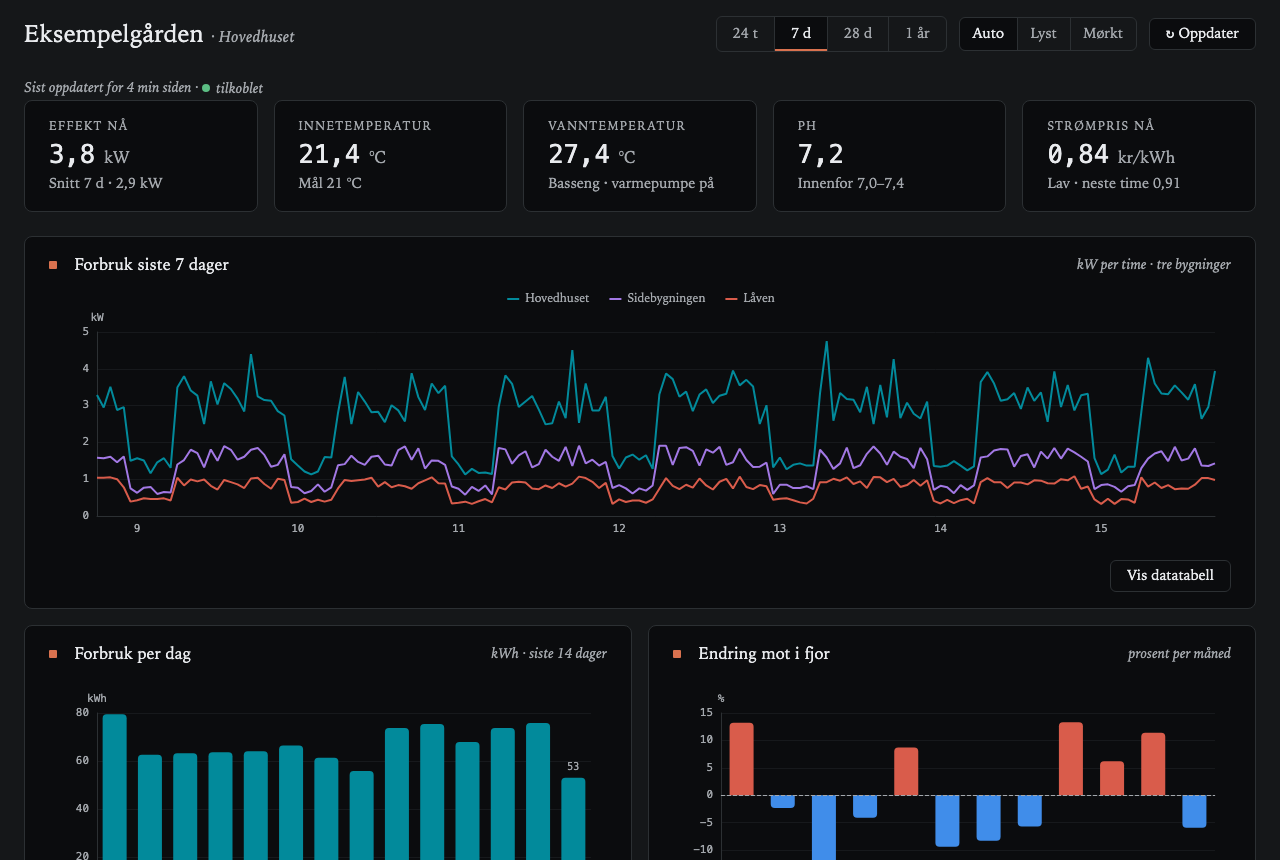
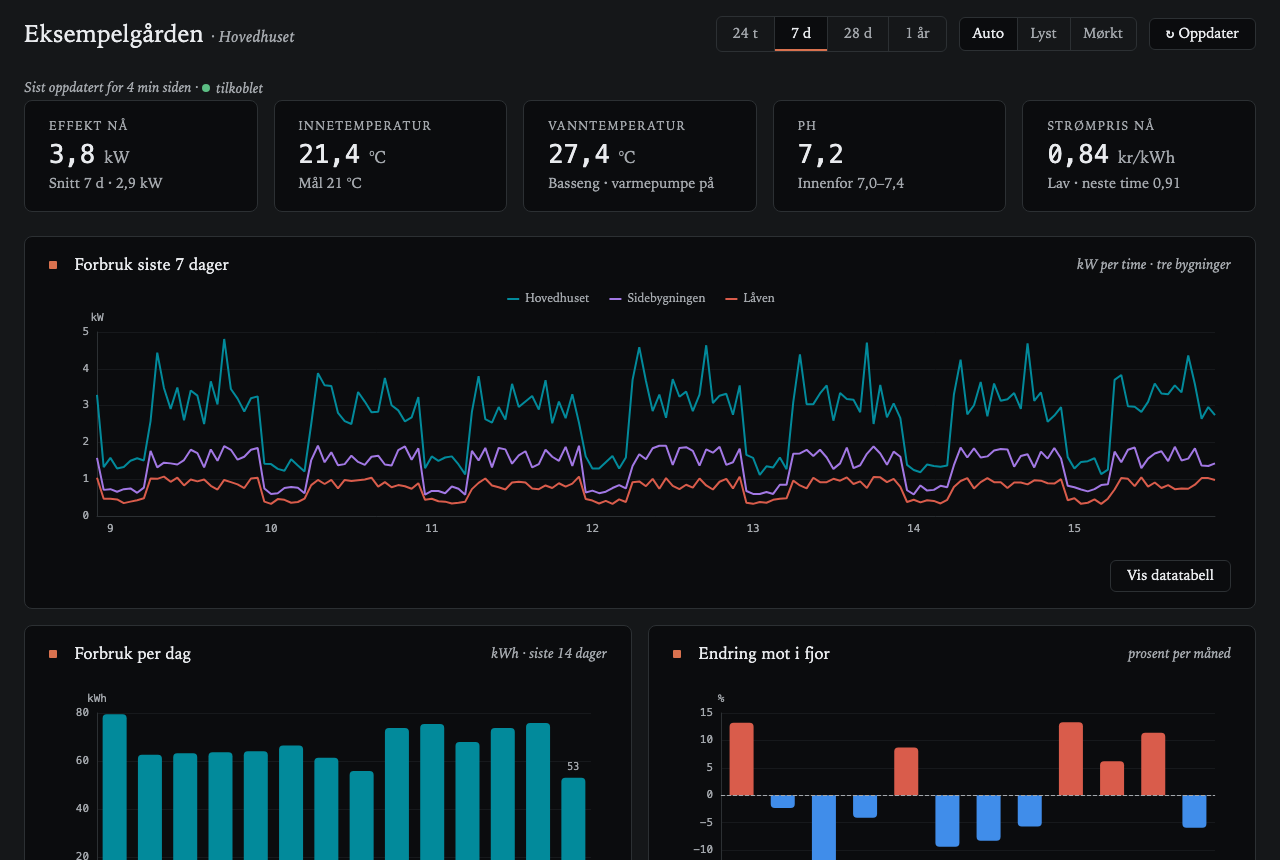
Selectable stat tiles: button.nd-stat with aria-pressed and --nd-stat-mark

diff --git a/site-src/komponenter.html b/site-src/komponenter.html
@@ -186,6 +186,13 @@
     <div class="nd-stat"><p class="nd-stat-label">pH</p><p class="nd-stat-value">7,2</p><p class="nd-stat-sub">Innenfor 7,0–7,4</p></div>
   </div>
 </div>
+<p>Skal flisen kunne velges, for eksempel for å fremheve et rom i en graf, bruker du <code>&lt;button class="nd-stat" aria-pressed="…"&gt;</code> med <code>&lt;span&gt;</code> i stedet for <code>&lt;p&gt;</code>. <code>--nd-stat-mark</code> gir valgt flis en strek og ramme i fargen den står for.</p>
+<div class="demo demo--bg">
+  <div class="nd-stats" style="margin: 0;">
+    <button type="button" class="nd-stat" aria-pressed="true" style="--nd-stat-mark: var(--nd-series-1);"><span class="nd-stat-label">Kjellerstue</span><span class="nd-stat-value">212 <span class="nd-stat-unit">Bq/m³</span></span><span class="nd-stat-sub"><span class="nd-status nd-status--warn">middels</span></span></button>
+    <button type="button" class="nd-stat" aria-pressed="false"><span class="nd-stat-label">Kjøkken</span><span class="nd-stat-value">48 <span class="nd-stat-unit">Bq/m³</span></span><span class="nd-stat-sub"><span class="nd-status nd-status--ok">god</span></span></button>
+  </div>
+</div>
 <pre class="code">&lt;div class="nd-stat"&gt;
   &lt;p class="nd-stat-label"&gt;Effekt nå&lt;/p&gt;
   &lt;p class="nd-stat-value"&gt;3,8 &lt;span class="nd-stat-unit"&gt;kW&lt;/span&gt;&lt;/p&gt;

diff --git a/dist/nd.css b/dist/nd.css
@@ -702,6 +702,15 @@ a.nd-zoom:focus-visible { outline-offset: 3px; }
 .nd-stat--hero .nd-stat-value { font-size: 3rem; }
 @container (max-width: 200px) { .nd-stat-value { font-size: 1.6rem; } }
 .nd-stats { display: grid; grid-template-columns: repeat(auto-fit, minmax(min(var(--nd-min, 200px), 100%), 1fr)); gap: var(--nd-space-4); margin: 0 0 var(--nd-space-5); }
+/* Selectable tile, e.g. to pick which room a chart highlights: <button type="button" class="nd-stat"
+   aria-pressed="false"> with <span> children (a <p> is not allowed inside a button). Set --nd-stat-mark to
+   the colour the tile stands for (its chart series); when pressed the tile gets a bar and border in that
+   colour – a shape change, so the state is not carried by colour alone. */
+button.nd-stat { font: inherit; color: inherit; text-align: left; cursor: pointer; inline-size: 100%; }
+button.nd-stat > .nd-stat-label, button.nd-stat > .nd-stat-sub { display: block; }
+button.nd-stat:hover { border-color: var(--nd-text-muted); }
+button.nd-stat:focus-visible { outline: 2px solid var(--nd-focus); outline-offset: 2px; }
+button.nd-stat[aria-pressed="true"] { border-color: var(--nd-stat-mark, var(--nd-accent)); box-shadow: inset 0 4px 0 var(--nd-stat-mark, var(--nd-accent)); }
 
 /* ===== print.css ===== */
 /* Print – always last in the build so these overrides win over both dark

diff --git a/src/components/dashboard/stat.css b/src/components/dashboard/stat.css
@@ -7,3 +7,12 @@
 .nd-stat--hero .nd-stat-value { font-size: 3rem; }
 @container (max-width: 200px) { .nd-stat-value { font-size: 1.6rem; } }
 .nd-stats { display: grid; grid-template-columns: repeat(auto-fit, minmax(min(var(--nd-min, 200px), 100%), 1fr)); gap: var(--nd-space-4); margin: 0 0 var(--nd-space-5); }
+/* Selectable tile, e.g. to pick which room a chart highlights: <button type="button" class="nd-stat"
+   aria-pressed="false"> with <span> children (a <p> is not allowed inside a button). Set --nd-stat-mark to
+   the colour the tile stands for (its chart series); when pressed the tile gets a bar and border in that
+   colour – a shape change, so the state is not carried by colour alone. */
+button.nd-stat { font: inherit; color: inherit; text-align: left; cursor: pointer; inline-size: 100%; }
+button.nd-stat > .nd-stat-label, button.nd-stat > .nd-stat-sub { display: block; }
+button.nd-stat:hover { border-color: var(--nd-text-muted); }
+button.nd-stat:focus-visible { outline: 2px solid var(--nd-focus); outline-offset: 2px; }
+button.nd-stat[aria-pressed="true"] { border-color: var(--nd-stat-mark, var(--nd-accent)); box-shadow: inset 0 4px 0 var(--nd-stat-mark, var(--nd-accent)); }

diff --git a/CHANGELOG.md b/CHANGELOG.md
@@ -9,6 +9,8 @@ on the website). `## Unreleased` collects what is coming.
 
 ## Unreleased
 
+- Nøkkeltall kan velges: `<button class="nd-stat" aria-pressed>` med `<span>`-innhold. Valgt flis får strek og ramme i fargen `--nd-stat-mark` (for eksempel grafserien flisen står for). Laget for å velge rom i luft-dashbordet.
+
 ## v1.0.5 – 2026-10-15
 
 - Ny komponent: fremdriftsstolpe (`.nd-progress`) på det vanlige `<progress>`-elementet, med verdien som tekst ved siden av (`.nd-progress-row`, `.nd-progress-value`). Aksentfarge mens jobben pågår, grønn (`--ok`) når den er ferdig. Laget for innsamlingssiden i luft-appen.
